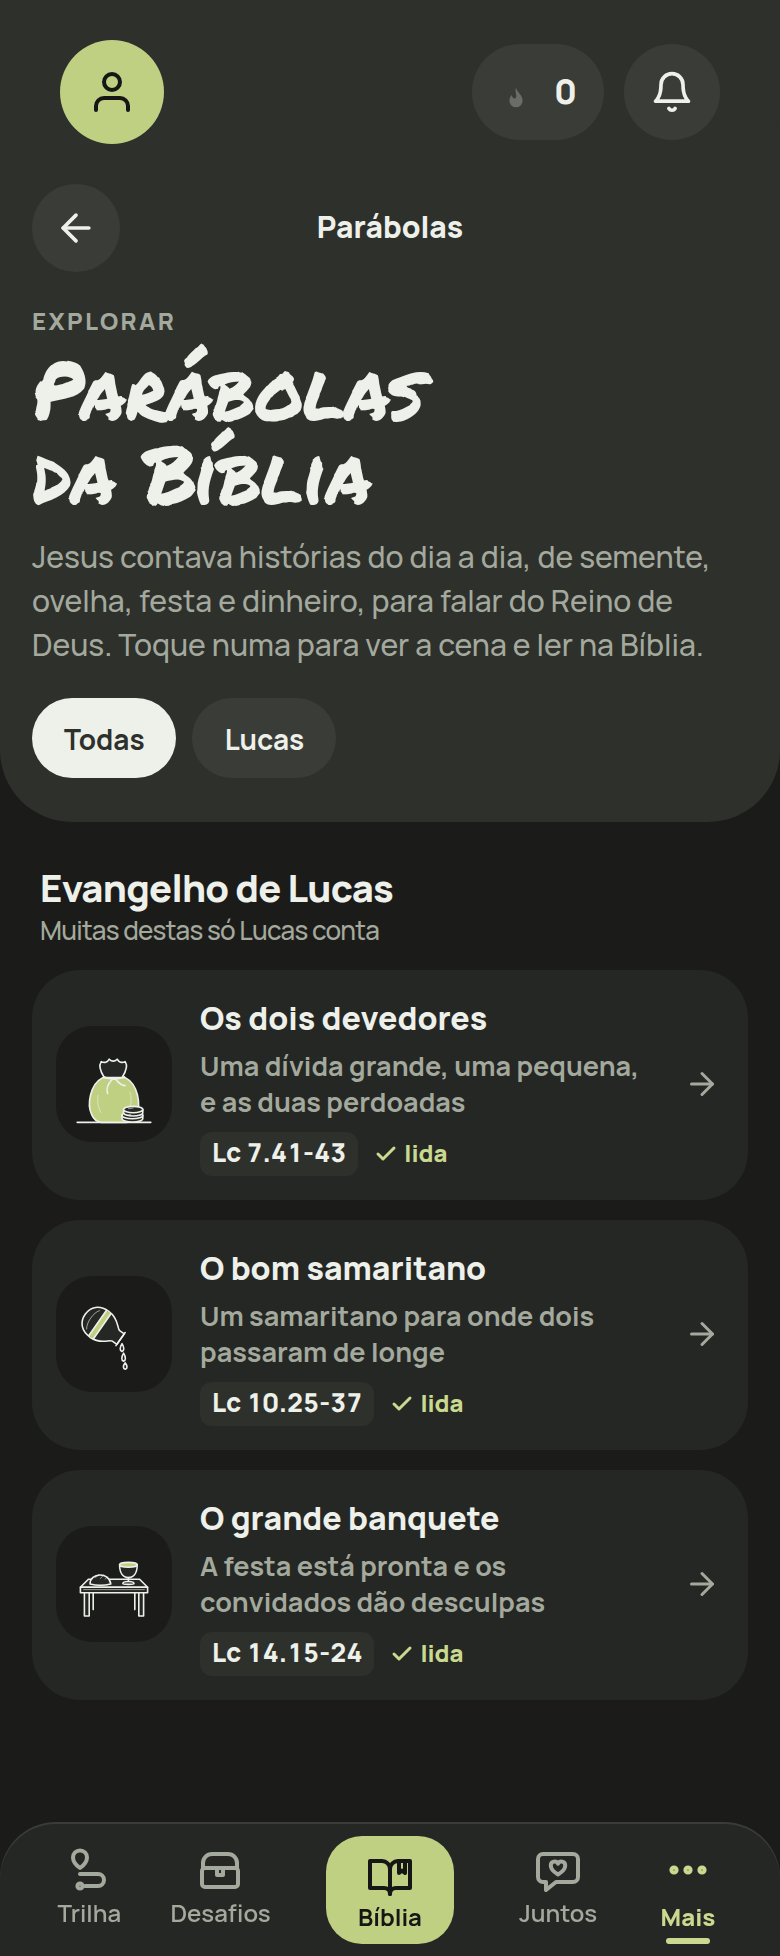
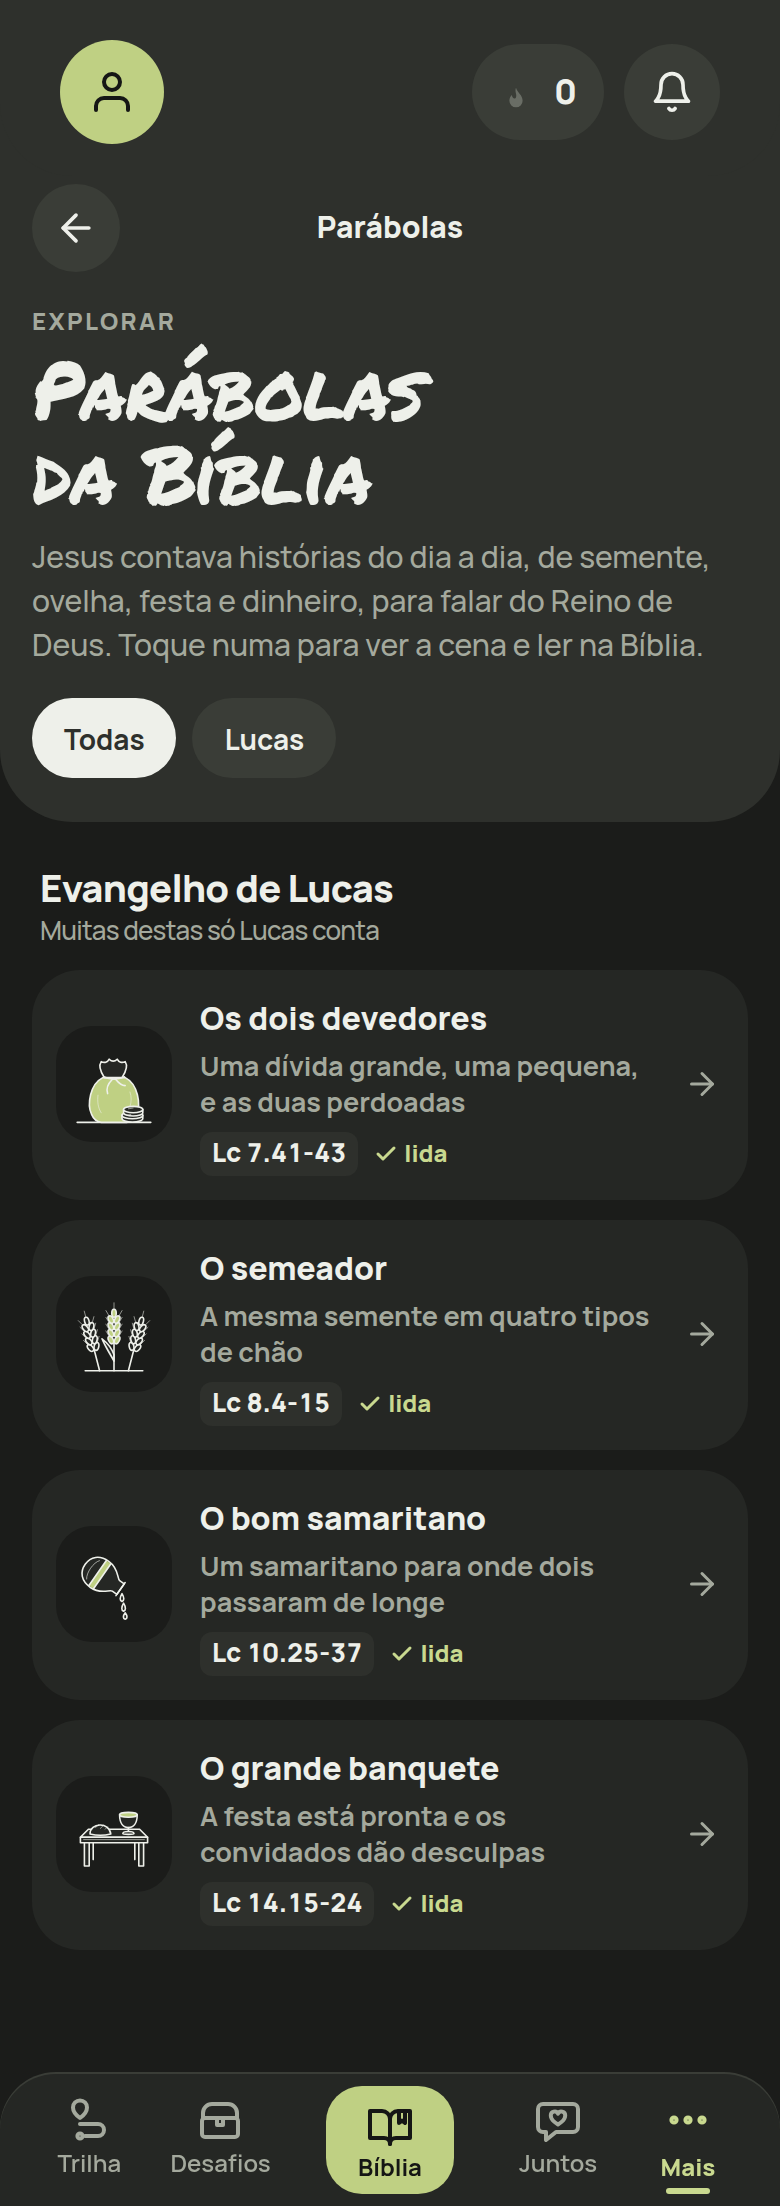
Parábola do semeador, com os quatro chãos e as parecidas
O semeador (Lc 8.4-15): três seções, os quatro chãos num bloco de itens
em duas linhas de dois, a explicação que Jesus dá aos discípulos e as
parecidas em Mt 13.1-23 e Mc 4.1-20. Quatro desenhos novos: o saco de
sementes no campo, o caminho com a ave, o broto na pedra e o broto nos
espinhos. A linha da parecida sai como está escrita (antes a tela punha
a primeira letra em minúscula e virava "jesus").

Claude-Session: https://claude.ai/code/session_0181e5xzHUW8QLQRgjbfooCS

diff --git a/src/sob-demanda/parabola-tela.js b/src/sob-demanda/parabola-tela.js
@@ -93,6 +93,7 @@
     pao: '<path d="M4 12a8 5 0 0 1 16 0v5H4z"/><path d="M9 9l1.5 2M13 8.5l1.5 2"/>',
     pessoas: '<circle cx="9" cy="8" r="3"/><path d="M3 20c0-3.5 2.7-6 6-6s6 2.5 6 6"/><circle cx="17" cy="9" r="2.5"/><path d="M16 14c3 0 5 2.2 5 5"/>',
     estrada: '<path d="M8 3L4 21M16 3l4 18M12 5v3M12 11v3M12 17v3"/>',
+    broto: '<path d="M12 21V11"/><path d="M12 11C12 6 8 4 4 4c0 4 3 7 8 7zM12 13c0-4 3-6 8-6 0 4-3 6-8 6z"/>',
     moeda: '<circle cx="12" cy="12" r="8"/><circle cx="12" cy="12" r="4.5"/>',
     ancora: '<circle cx="12" cy="5" r="2"/><path d="M12 7v14M8 11h8M5 14c0 4 3 7 7 7s7-3 7-7"/>',
   };
@@ -104,10 +105,11 @@
       : '<path class="pontos" d="M80 2C70 20 40 18 32 36"/><path class="ponta" d="M26 32l6 6 5-7"/>') + '</svg>';
   const desenho = (p, id, classe) => (p.desenhos && p.desenhos[id] ? '<span class="desenho' + (classe ? ' ' + classe : '') + '" aria-hidden="true">' + p.desenhos[id] + '</span>' : '');
 
+  // quatro itens viram duas linhas de dois: a 390px, quatro colunas espremem os nomes
   function bloco(p, b) {
     if (b.fala !== undefined) return '<p class="fala-parabola">“' + falaTx(b.fala) + '”' + ref(b.ref) + '</p>';
     if (b.itens) {
-      return '<div class="itens-parabola" style="--colunas:' + b.itens.length + '">' + b.itens.map((it) => '<div class="item-cena">' + desenho(p, it.desenho)
+      return '<div class="itens-parabola" style="--colunas:' + (b.itens.length === 4 ? 2 : b.itens.length) + '">' + b.itens.map((it) => '<div class="item-cena">' + desenho(p, it.desenho)
         + '<b>' + CC.esc(it.titulo) + '</b>' + (it.fala ? '<span>“' + falaTx(it.fala) + '”</span>' : '') + '</div>').join('') + '</div>';
     }
     return '<p class="texto-parabola">' + tx(b.texto) + ref(b.ref) + '</p>';
@@ -126,7 +128,7 @@
     const parecidas = (p.parecidas || []).map((x) => {
       const destino = x.slug && porSlug.get(x.slug);
       const dentro = desenho(p, p.desenhoLista) + '<span><b>Parecida em ' + CC.esc((trechoDe(x.ref) || {}).livro || '') + ' · ' + CC.esc(x.titulo) + '</b>'
-        + '<small>' + nb(CC.esc(x.ref)) + (x.linha ? ' · ' + CC.esc(x.linha.charAt(0).toLowerCase() + x.linha.slice(1)) : '') + '</small></span>';
+        + '<small>' + nb(CC.esc(x.ref)) + (x.linha ? ' · ' + CC.esc(x.linha) : '') + '</small></span>';
       return destino ? '<a class="parecida-parabola" href="#/parabola/' + x.slug + '">' + dentro + CC.ico('avancar') + '</a>' : '<div class="parecida-parabola">' + dentro + '</div>';
     }).join('');
     return '<div class="parabola">'
